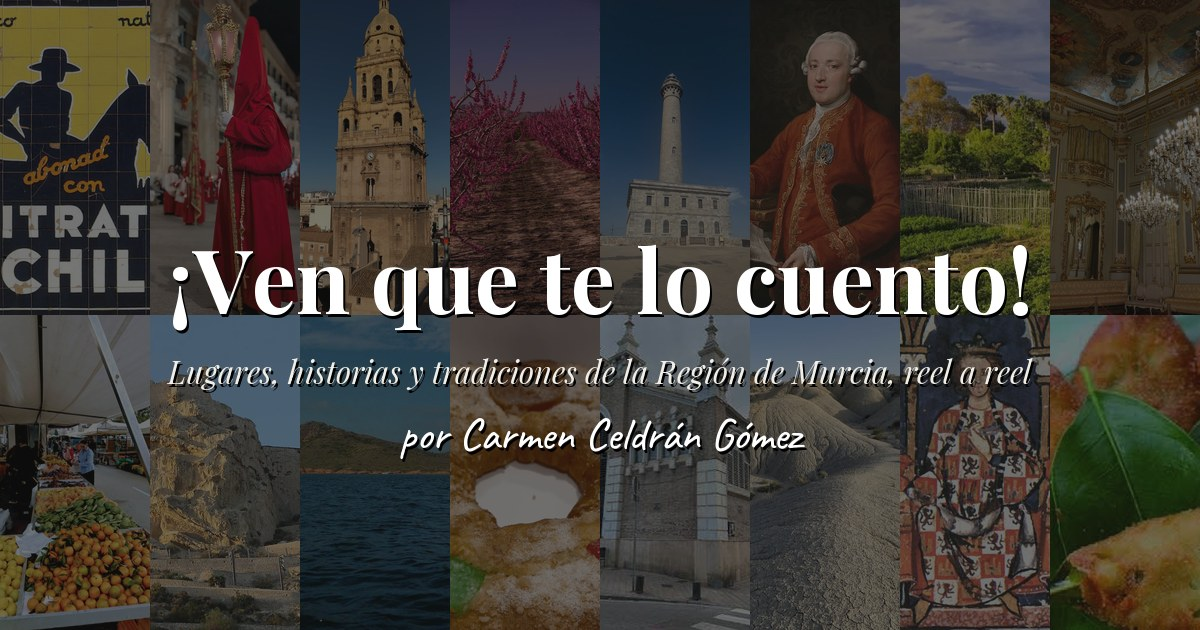
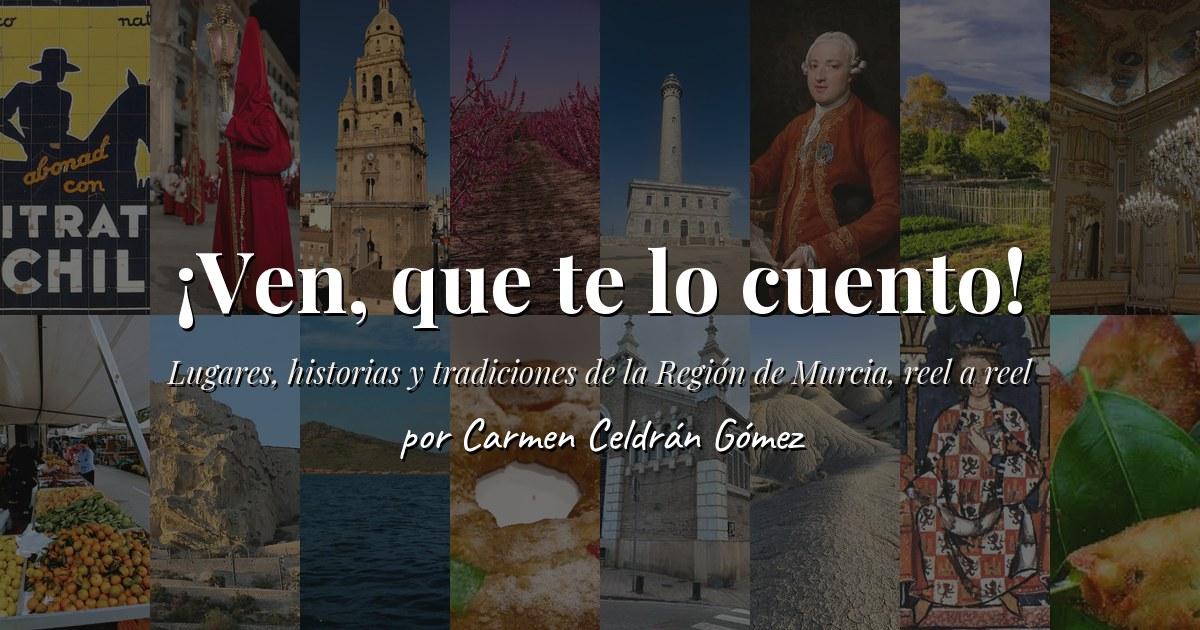
Correcciones de texto en todo el sitio
- "¡Ven, que te lo cuento!" con la coma del "que" causal, en las 16
  apariciones (y regenerado el og.jpg, que lleva el título dentro).
- "Vídeos" con tilde en el menú y en la página.
- "Blog" pasa a llamarse "Artículos" en el menú, la portada y el enlace
  de vuelta (la URL /blog no cambia para no romper enlaces).
- El lema del pie y la descripción por defecto pasan a "Lugares,
  historias y tradiciones de la Región de Murcia".

Changed region(s): [[0.2158, 0.3921, 0.8633, 0.5429], [0.1233, 0.3921, 0.2775, 0.5429]]

diff --git a/REQUISITOS.md b/REQUISITOS.md
@@ -1,4 +1,4 @@
-# Requisitos - "¡Ven que te lo cuento!"
+# Requisitos - "¡Ven, que te lo cuento!"
 
 ## 1. Descripción general
 
@@ -63,7 +63,7 @@ Web estática de patrimonio cultural, centrada principalmente en la Región de M
 ### 3.4. Navegación
 
 - Barra de navegación con:
-  - Logo/nombre: "¡Ven que te lo cuento!"
+  - Logo/nombre: "¡Ven, que te lo cuento!"
   - Enlaces: Mapa (inicio) | Blog | Sobre mí
 
 ---
